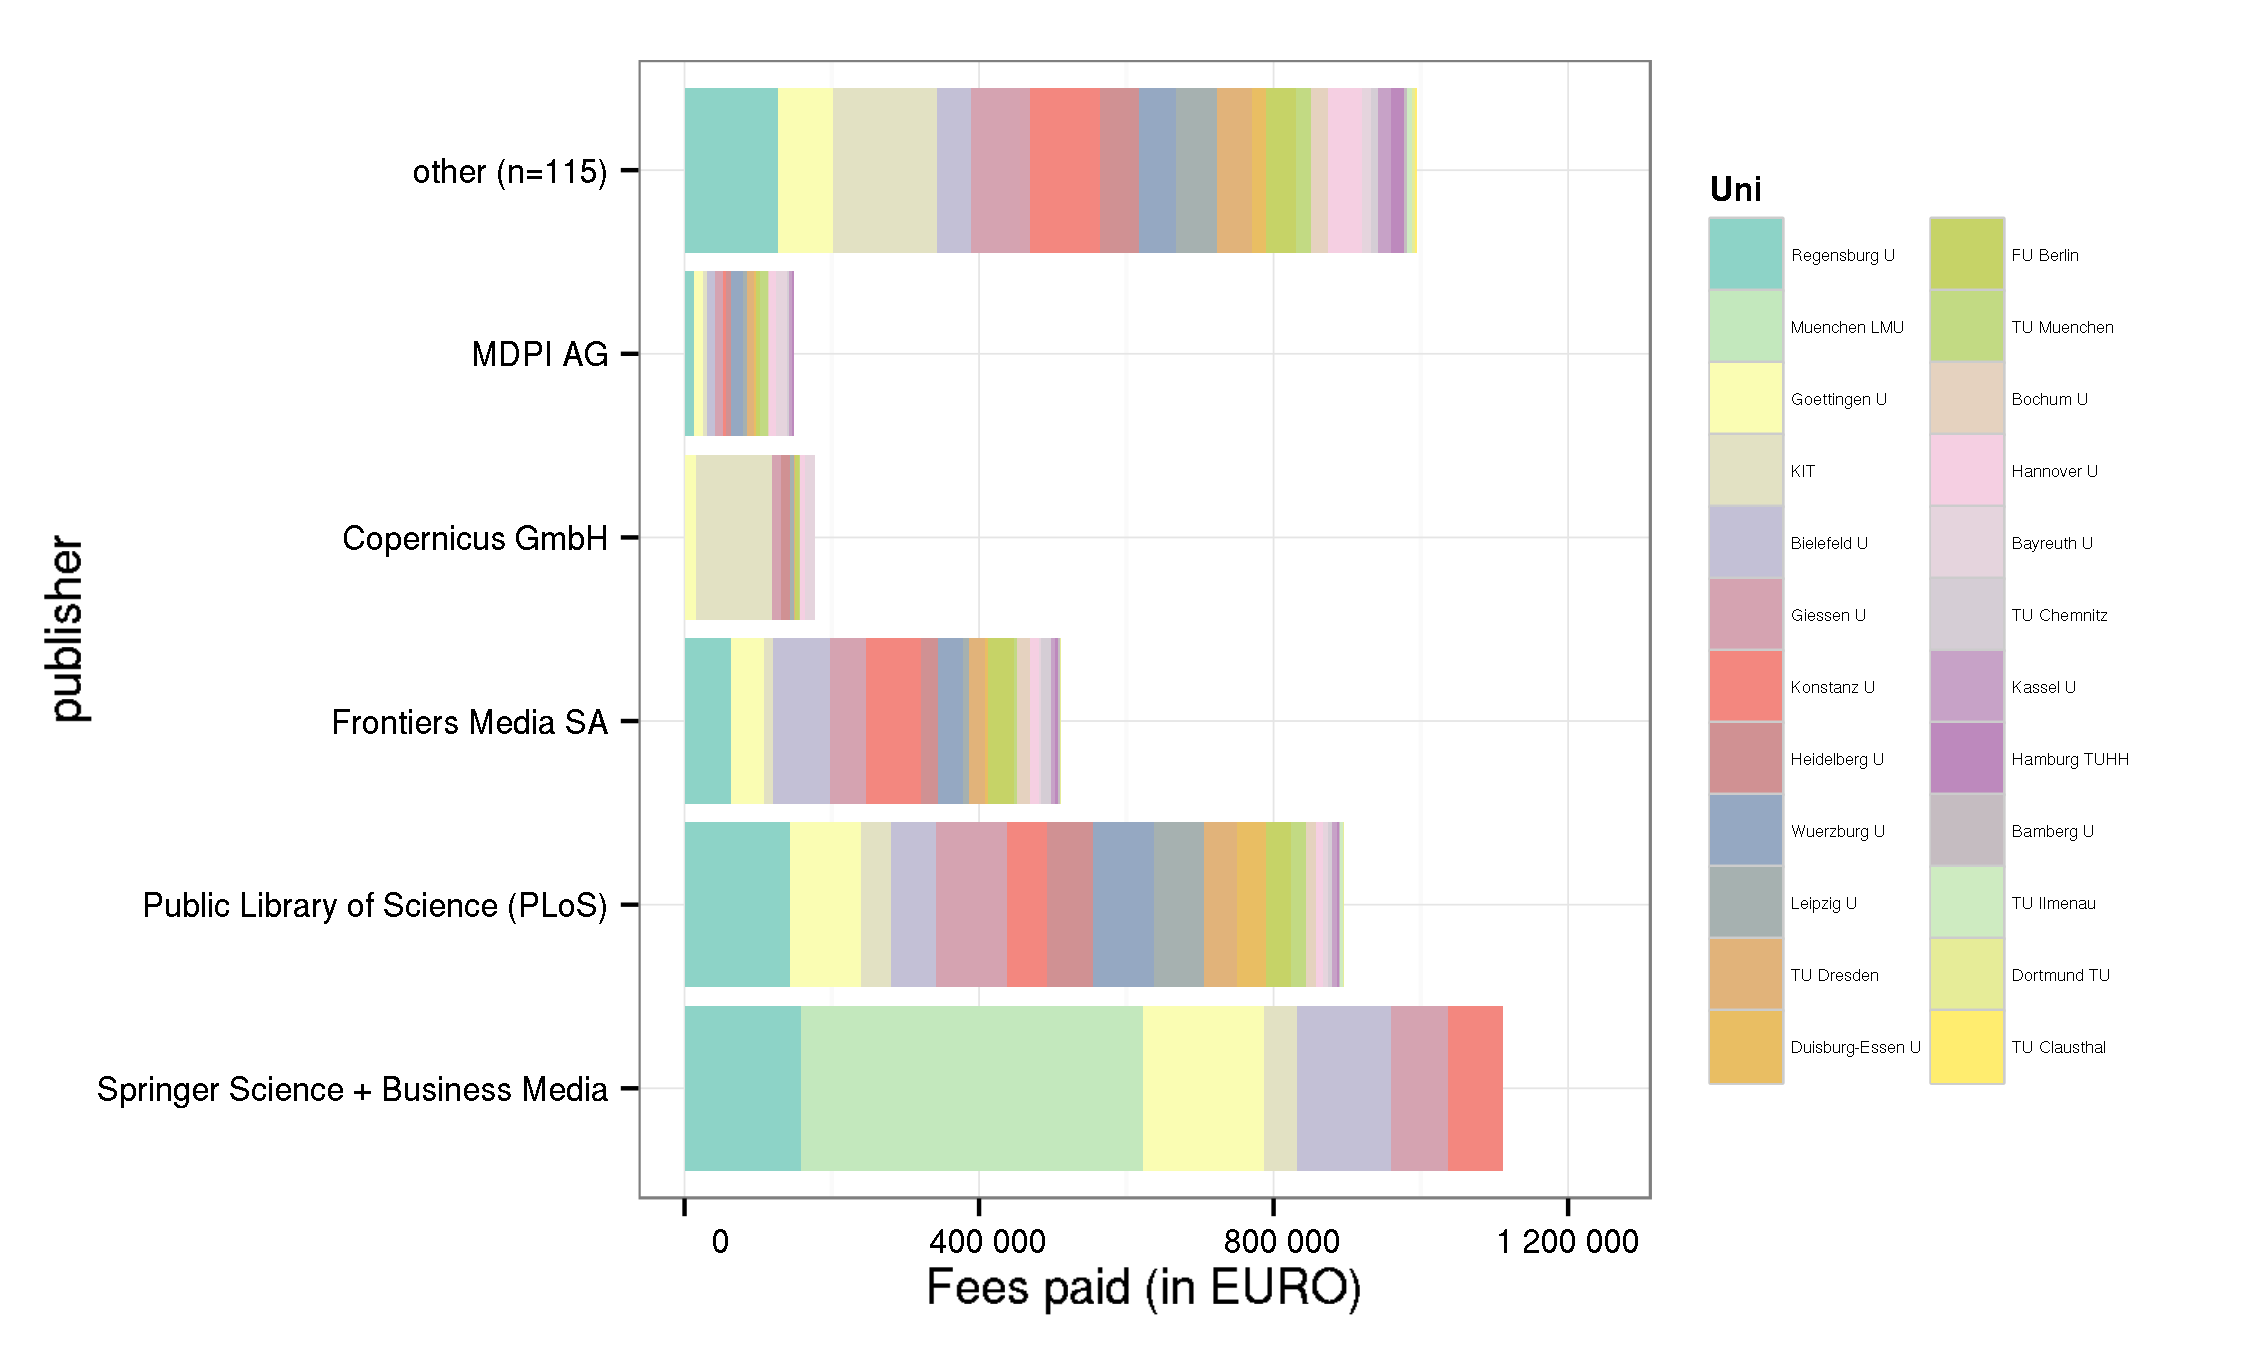
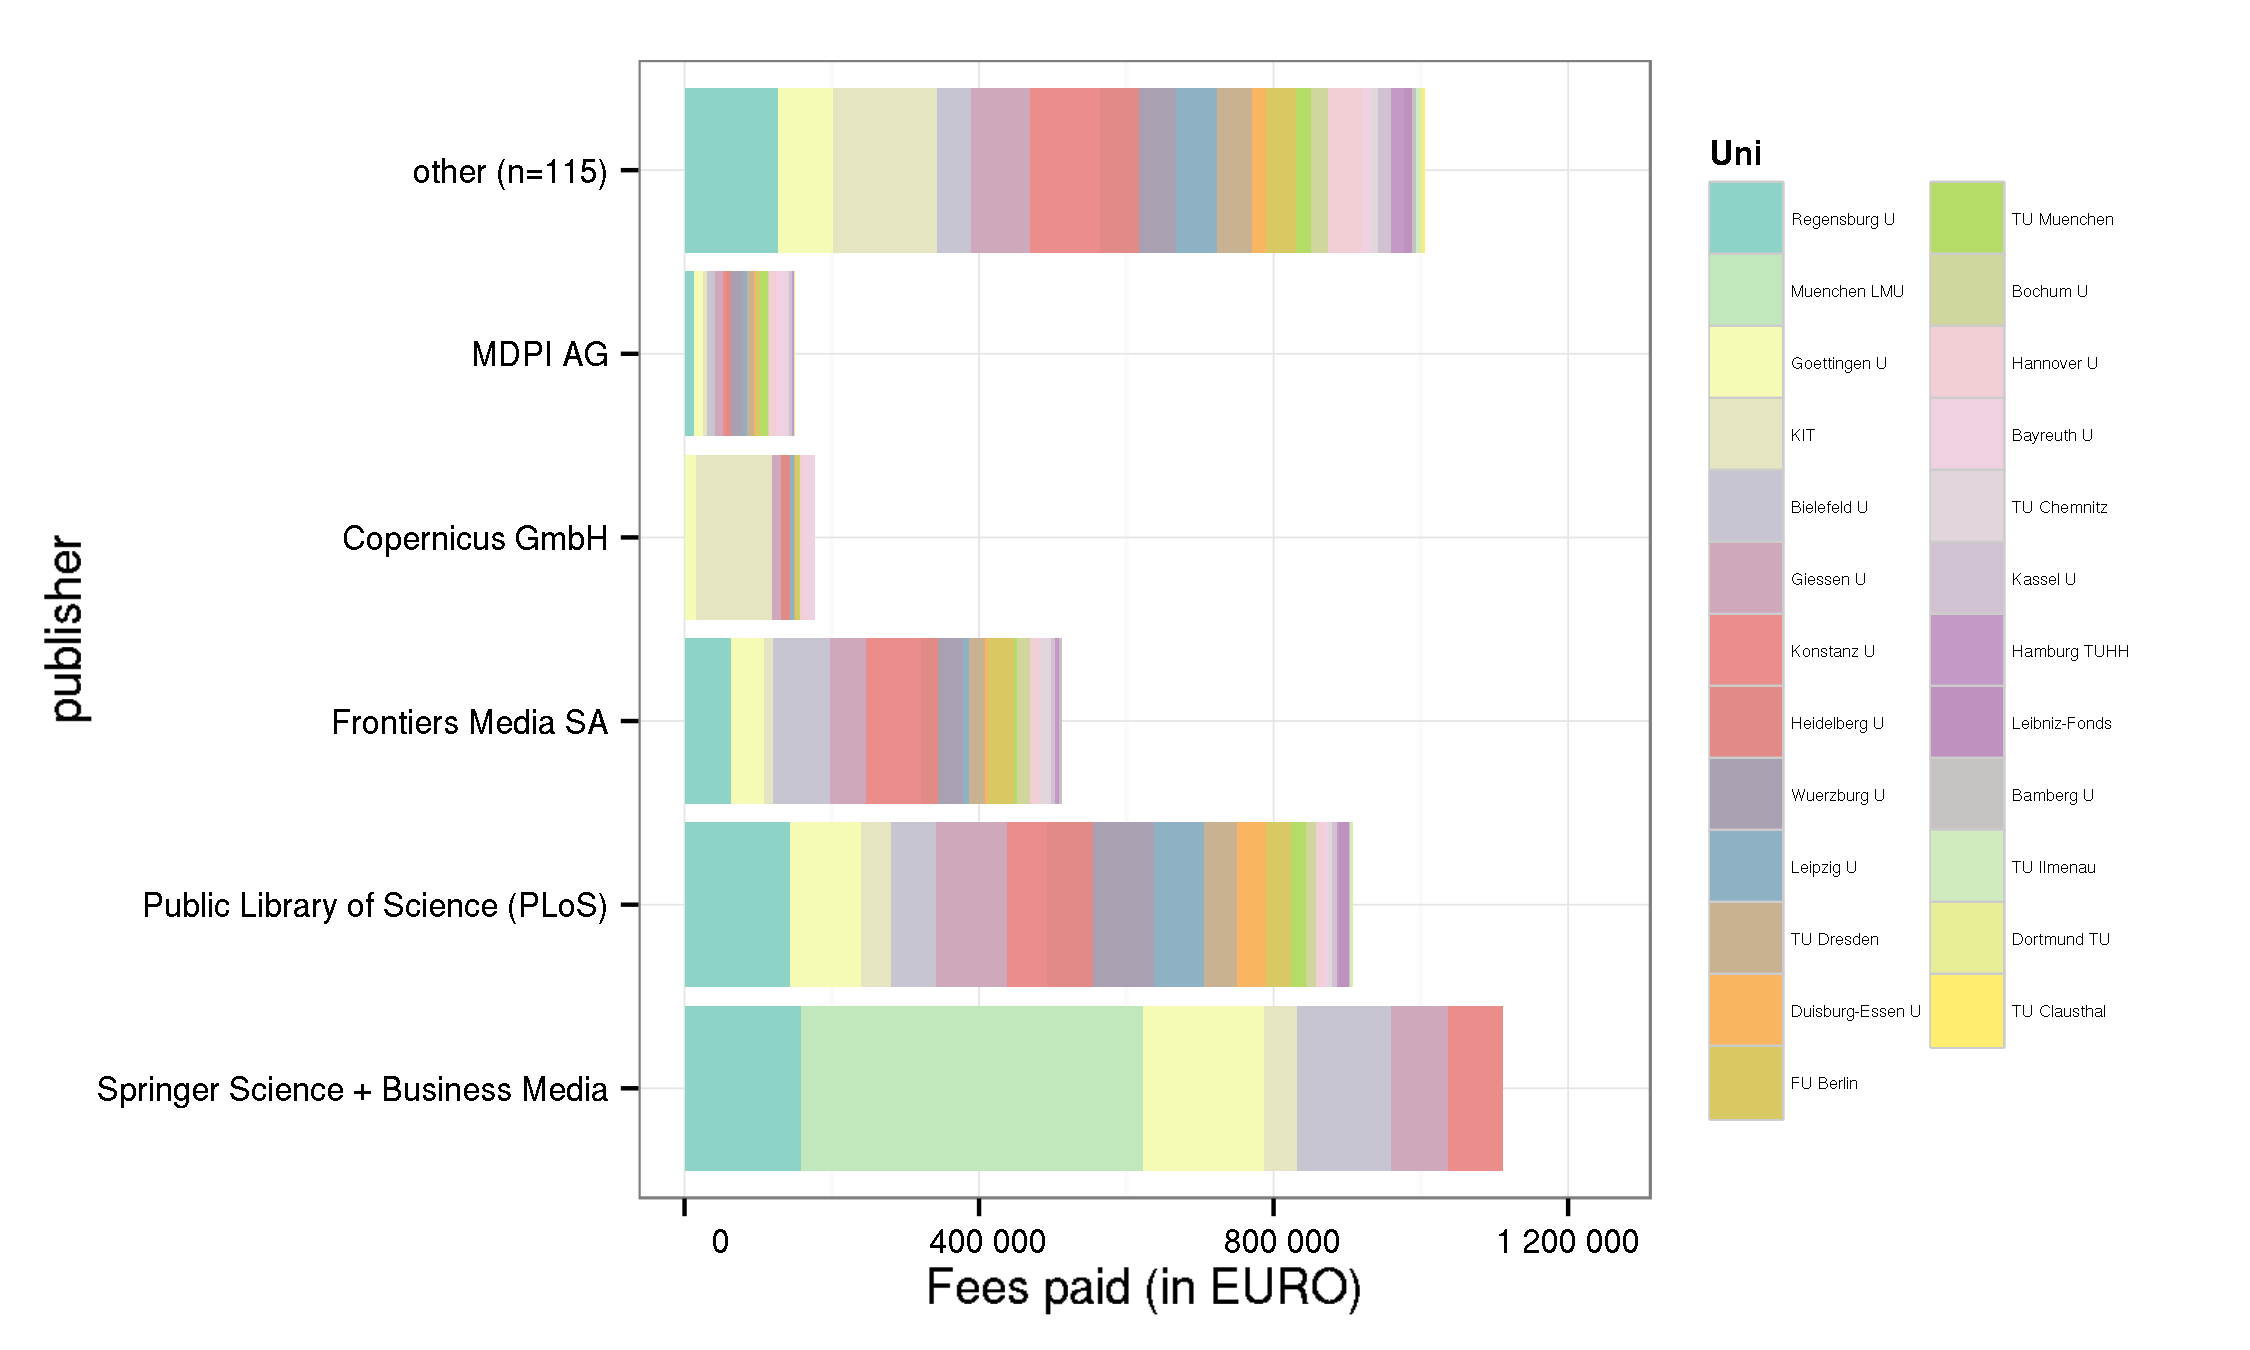
Added APC data leibnizfonds (#107)

diff --git a/README.md b/README.md
@@ -60,13 +60,13 @@ ation/library)
 
 Information on both open access journal articles and open access publication of articles in toll-access journals ("hybrid") are provided.
 
-In total,  8 536 044 € for  6 638 articles were paid by the participating unviversities. Average  fee is 1 285.9 € and the median 1 214 €.
+In total,  8 566 226 € for  6 658 articles were paid by the participating unviversities. Average  fee is 1 286.6 € and the median 1 216 €.
 
 ### Open Access Journals
 
 
 
-At the moment, the dataset releases information on 6 585 articles in open access journals which charge publication fees. Total expenditure amounts to  8 448 203 €. Average  fee is 1 282.9 € and the median 1 212 €.
+At the moment, the dataset releases information on 6 605 articles in open access journals which charge publication fees. Total expenditure amounts to  8 478 385 €. Average  fee is 1 283.6 € and the median 1 213 €.
 
 View dataset on [GitHub](https://github.com/OpenAPC/openapc-de/blob/master/data/apc_de.csv).
 
@@ -91,6 +91,7 @@ View dataset on [GitHub](https://github.com/OpenAPC/openapc-de/blob/master/data/
 |Kassel U                                    |       35|             35550|          1016|   1142|
 |KIT                                         |      293|            345311|          1179|   1176|
 |Konstanz U                                  |      223|            304182|          1364|   1342|
+|Leibniz-Fonds                               |       20|             30182|          1509|   1476|
 |Leipzig U                                   |      168|            236376|          1407|   1481|
 |MDC                                         |       23|             41464|          1803|   1212|
 |MPG                                         |     2816|           3597571|          1278|   1161|
